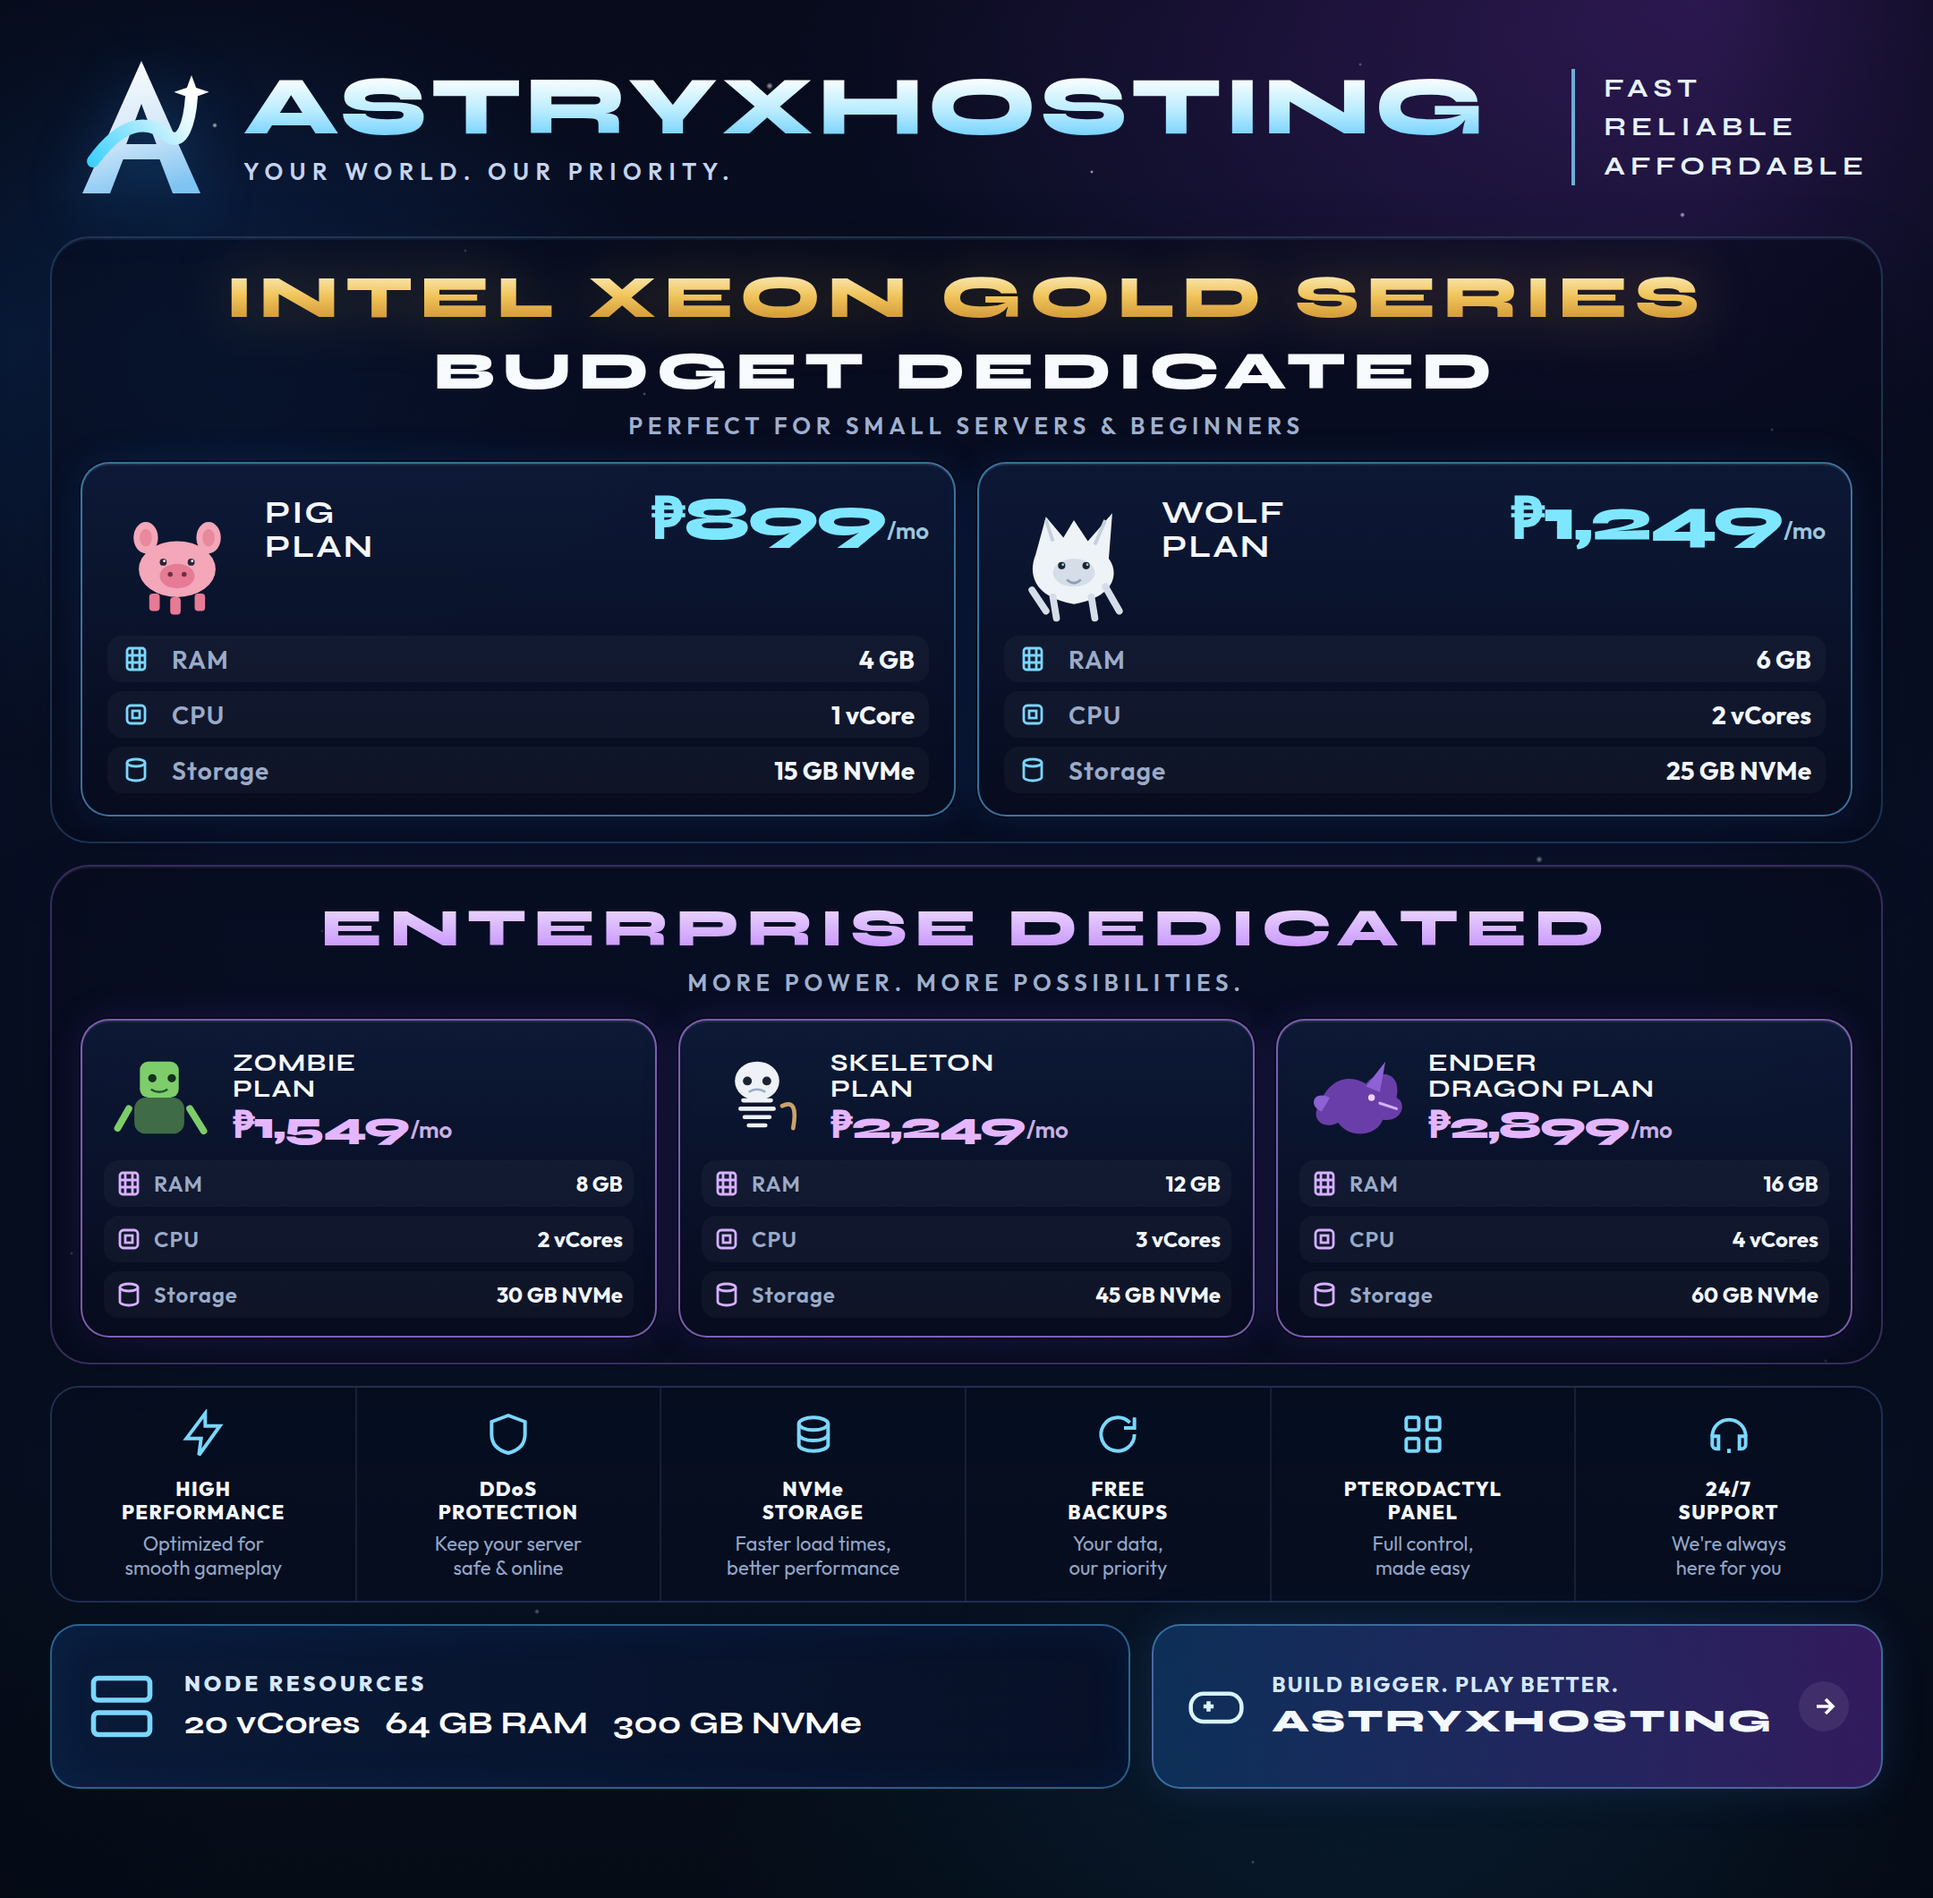
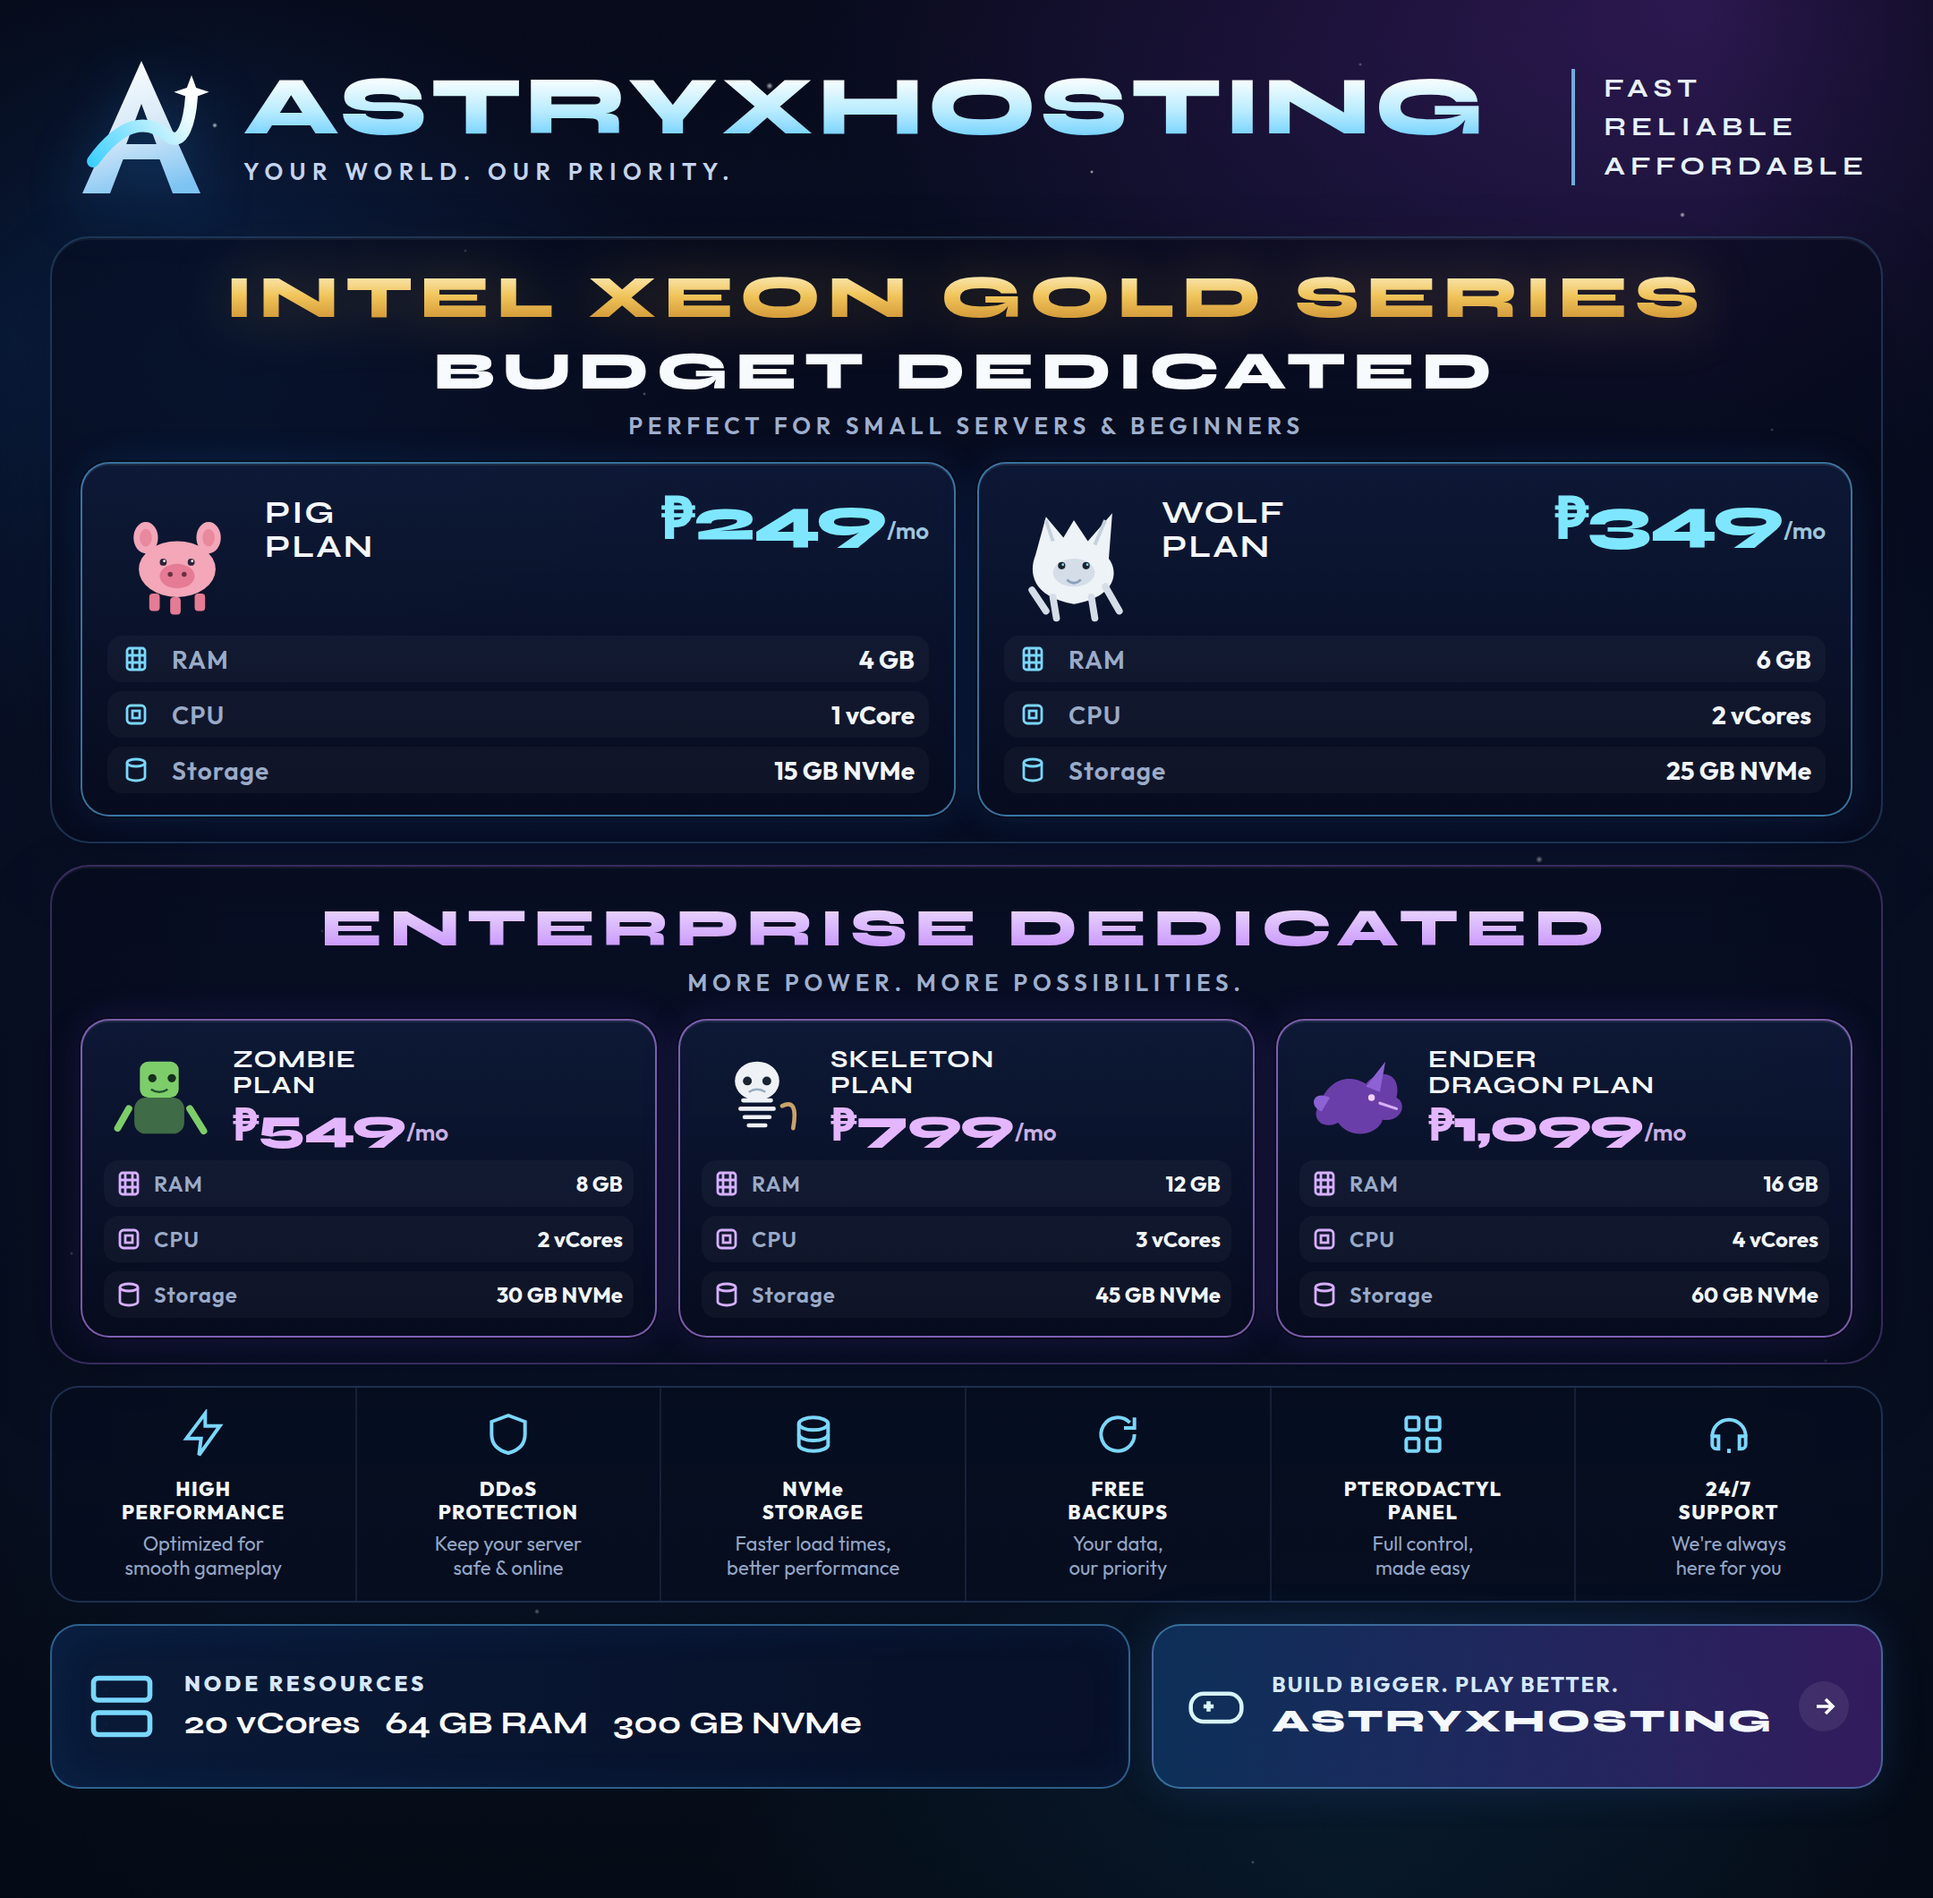
Restore the original plan prices and keep specs that fit each node.
Monthly prices return to the affordable list. CPU and storage are sized so a full set of plans stays inside the Xeon and Ryzen machines.

diff --git a/posters/xeon.html b/posters/xeon.html
@@ -75,7 +75,7 @@
             </svg>
             <div class="card-top">
               <div class="plan-name">PIG<br />PLAN</div>
-              <div class="price">₱899<span class="per">/mo</span></div>
+              <div class="price">₱249<span class="per">/mo</span></div>
             </div>
             <div class="specs">
               <div class="spec"><svg viewBox="0 0 16 16" fill="none" stroke="#7ad7ff" stroke-width="1.4"><rect x="3" y="2" width="10" height="12" rx="1.5"/><path d="M6 2v12M10 2v12M3 6h10M3 10h10"/></svg><span class="k">RAM</span><span class="v">4 GB</span></div>
@@ -98,7 +98,7 @@
             </svg>
             <div class="card-top">
               <div class="plan-name">WOLF<br />PLAN</div>
-              <div class="price">₱1,249<span class="per">/mo</span></div>
+              <div class="price">₱349<span class="per">/mo</span></div>
             </div>
             <div class="specs">
               <div class="spec"><svg viewBox="0 0 16 16" fill="none" stroke="#7ad7ff" stroke-width="1.4"><rect x="3" y="2" width="10" height="12" rx="1.5"/><path d="M6 2v12M10 2v12M3 6h10M3 10h10"/></svg><span class="k">RAM</span><span class="v">6 GB</span></div>
@@ -124,7 +124,7 @@
             </svg>
             <div class="card-top">
               <div class="plan-name">ZOMBIE<br />PLAN</div>
-              <div class="price">₱1,549<span class="per">/mo</span></div>
+              <div class="price">₱549<span class="per">/mo</span></div>
             </div>
             <div class="specs">
               <div class="spec"><svg viewBox="0 0 16 16" fill="none" stroke="#d7b0ff" stroke-width="1.4"><rect x="3" y="2" width="10" height="12" rx="1.5"/><path d="M6 2v12M10 2v12M3 6h10M3 10h10"/></svg><span class="k">RAM</span><span class="v">8 GB</span></div>
@@ -143,7 +143,7 @@
             </svg>
             <div class="card-top">
               <div class="plan-name">SKELETON<br />PLAN</div>
-              <div class="price">₱2,249<span class="per">/mo</span></div>
+              <div class="price">₱799<span class="per">/mo</span></div>
             </div>
             <div class="specs">
               <div class="spec"><svg viewBox="0 0 16 16" fill="none" stroke="#d7b0ff" stroke-width="1.4"><rect x="3" y="2" width="10" height="12" rx="1.5"/><path d="M6 2v12M10 2v12M3 6h10M3 10h10"/></svg><span class="k">RAM</span><span class="v">12 GB</span></div>
@@ -161,7 +161,7 @@
             </svg>
             <div class="card-top">
               <div class="plan-name">ENDER<br />DRAGON PLAN</div>
-              <div class="price">₱2,899<span class="per">/mo</span></div>
+              <div class="price">₱1,099<span class="per">/mo</span></div>
             </div>
             <div class="specs">
               <div class="spec"><svg viewBox="0 0 16 16" fill="none" stroke="#d7b0ff" stroke-width="1.4"><rect x="3" y="2" width="10" height="12" rx="1.5"/><path d="M6 2v12M10 2v12M3 6h10M3 10h10"/></svg><span class="k">RAM</span><span class="v">16 GB</span></div>

diff --git a/posters/ryzen.html b/posters/ryzen.html
@@ -63,7 +63,7 @@
             </svg>
             <div class="card-top">
               <div class="plan-name">CORE</div>
-              <div class="price">₱1,149<span class="per">/mo</span></div>
+              <div class="price">₱399<span class="per">/mo</span></div>
             </div>
             <div class="specs">
               <div class="spec"><svg viewBox="0 0 16 16" fill="none" stroke="#7ad7ff" stroke-width="1.4"><rect x="3" y="2" width="10" height="12" rx="1.5"/><path d="M6 2v12M10 2v12M3 6h10M3 10h10"/></svg><span class="k">RAM</span><span class="v">4 GB</span></div>
@@ -78,7 +78,7 @@
             </svg>
             <div class="card-top">
               <div class="plan-name">BOOST</div>
-              <div class="price">₱1,549<span class="per">/mo</span></div>
+              <div class="price">₱549<span class="per">/mo</span></div>
             </div>
             <div class="specs">
               <div class="spec"><svg viewBox="0 0 16 16" fill="none" stroke="#7ad7ff" stroke-width="1.4"><rect x="3" y="2" width="10" height="12" rx="1.5"/><path d="M6 2v12M10 2v12M3 6h10M3 10h10"/></svg><span class="k">RAM</span><span class="v">6 GB</span></div>
@@ -102,7 +102,7 @@
             </svg>
             <div class="card-top">
               <div class="plan-name">POWER</div>
-              <div class="price">₱1,949<span class="per">/mo</span></div>
+              <div class="price">₱749<span class="per">/mo</span></div>
             </div>
             <div class="specs">
               <div class="spec"><svg viewBox="0 0 16 16" fill="none" stroke="#d7b0ff" stroke-width="1.4"><rect x="3" y="2" width="10" height="12" rx="1.5"/><path d="M6 2v12M10 2v12M3 6h10M3 10h10"/></svg><span class="k">RAM</span><span class="v">8 GB</span></div>
@@ -117,7 +117,7 @@
             </svg>
             <div class="card-top">
               <div class="plan-name">PERFORMANCE</div>
-              <div class="price">₱2,799<span class="per">/mo</span></div>
+              <div class="price">₱999<span class="per">/mo</span></div>
             </div>
             <div class="specs">
               <div class="spec"><svg viewBox="0 0 16 16" fill="none" stroke="#d7b0ff" stroke-width="1.4"><rect x="3" y="2" width="10" height="12" rx="1.5"/><path d="M6 2v12M10 2v12M3 6h10M3 10h10"/></svg><span class="k">RAM</span><span class="v">12 GB</span></div>
@@ -134,7 +134,7 @@
             </svg>
             <div class="card-top">
               <div class="plan-name">ULTRA</div>
-              <div class="price">₱3,499<span class="per">/mo</span></div>
+              <div class="price">₱1,399<span class="per">/mo</span></div>
             </div>
             <div class="specs">
               <div class="spec"><svg viewBox="0 0 16 16" fill="none" stroke="#d7b0ff" stroke-width="1.4"><rect x="3" y="2" width="10" height="12" rx="1.5"/><path d="M6 2v12M10 2v12M3 6h10M3 10h10"/></svg><span class="k">RAM</span><span class="v">16 GB</span></div>

diff --git a/posters/styles.css b/posters/styles.css
@@ -299,7 +299,7 @@ html, body {
 }
 
 .card.purple .price { color: #e4b6ff; }
-.cards.three .price { font-size: 22px; }
+.cards.three .price { font-size: 26px; }
 
 .per {
   font-family: Outfit, "Noto Sans", sans-serif;

diff --git a/README.md b/README.md
@@ -2,8 +2,8 @@
 
 Price posters for Astryx Hosting dedicated game servers.
 
-- **Intel Xeon Gold Series** — Pig ₱899, Wolf ₱1,249, Zombie ₱1,549, Skeleton ₱2,249, Ender Dragon ₱2,899
-- **Ryzen 9 Series** — Core ₱1,149, Boost ₱1,549, Power ₱1,949, Performance ₱2,799, Ultra ₱3,499
+- **Intel Xeon Gold Series** — Pig ₱249, Wolf ₱349, Zombie ₱549, Skeleton ₱799, Ender Dragon ₱1,099
+- **Ryzen 9 Series** — Core ₱399, Boost ₱549, Power ₱749, Performance ₱999, Ultra ₱1,399
 
 Exported images:
 
